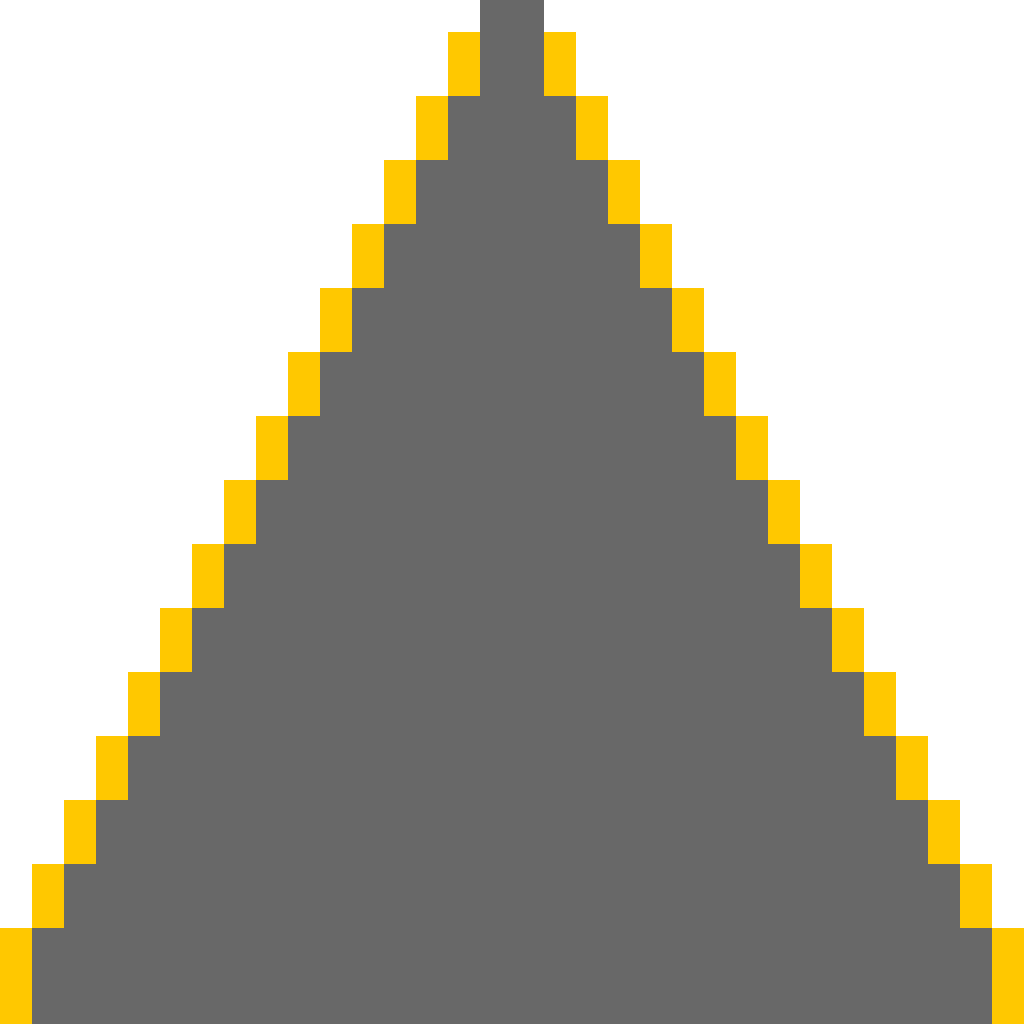
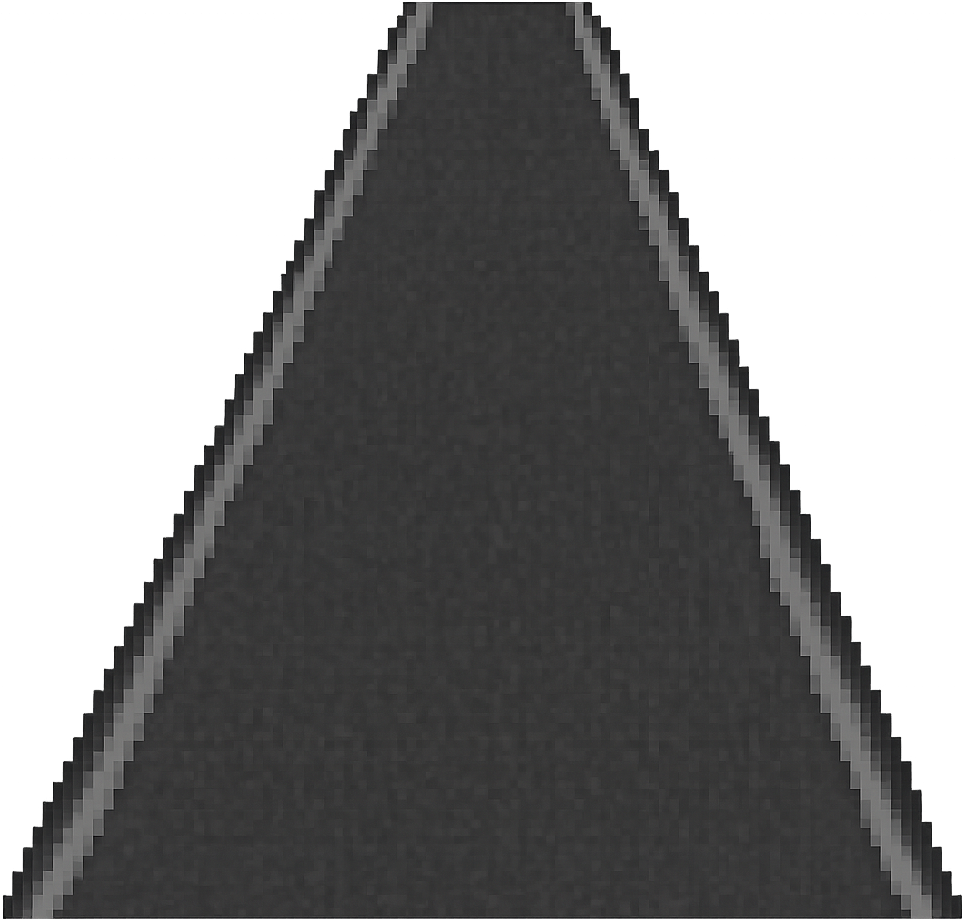
Aperfeiçoando a pista

diff --git a/assets.py b/assets.py
@@ -14,9 +14,10 @@ estrada = 'estrada'
 grama = 'grama'
 ceu = 'ceu'
 nuvem = 'nuvem'
+pista = 'pista'
 def load_assets():
     assets = {}
-    assets[estrada] = pygame.transform.scale(pygame.image.load('files/img/estrada.png').convert_alpha(),(WIDTH - 300,HEIGHT/2))
+    assets[estrada] = pygame.image.load('files/img/estrada.png').convert_alpha()
     assets[ceu] =  [
         pygame.transform.scale(pygame.image.load('files/img/Ceu_azul.png').convert(),(WIDTH, HEIGHT/2)),
         pygame.transform.scale(pygame.image.load('files/img/Por_do_Sol.png').convert(),(WIDTH, HEIGHT/2)),
@@ -45,6 +46,7 @@ def load_assets():
         pygame.transform.scale(pygame.image.load('files/img/Nuvem3.png').convert_alpha(),(WIDTH_NUVEM, HEIGHT_NUVEM))
     ]
     assets[oleo] = pygame.transform.scale(pygame.image.load('files/img/oleo.png').convert_alpha(),(WIDTH_OLEO, HEIGHT_OLEO))
+    assets[pista] = pygame.transform.scale(pygame.image.load('files/img/Pista.png').convert_alpha(),(800, 100))
     explosion_anim = []
     for i in range(9):
          #Os arquivos de animação são numerados de 00 a 08   

diff --git a/classes.py b/classes.py
@@ -327,9 +327,9 @@ class Oleo(pygame.sprite.Sprite):
 class ArvoreE(pygame.sprite.Sprite):
     def __init__(self, assets):
         pygame.sprite.Sprite.__init__(self)
+        n = random.randint(0,2)
         self.assets = assets
-        self.assets = assets
-        self.original_image = assets[arvore][2]
+        self.original_image = assets[arvore][n]
         self.base_width = WIDTH_ARVORE
         self.base_height = HEIGHT_ARVORE
         self.escala_min = 0.2
@@ -438,3 +438,4 @@ class Nuvem(pygame.sprite.Sprite):
         self.rect.x += self.speedx
         if self.rect.left > WIDTH:  # Kill when fully off-screen right
             self.kill()
+

diff --git a/funcoes.py b/funcoes.py
@@ -3,3 +3,14 @@ from configuracoes import *
 import os
 from classes import *
 from assets import load_assets
+
+def triangulo (janela, imagem, inicio_y, fim_y, esquerda, direita, apice_x, apice_y):
+    altura = fim_y - inicio_y
+    largura = direita - esquerda
+    superficie = pygame.Surface((WIDTH, HEIGHT), pygame.SRCALPHA)
+
+    pygame.draw.polygon(superficie, (0,0,0,0), [(apice_x,apice_y),(esquerda, altura),(direita,altura)])
+    estrada_escala = pygame.transform.scale(imagem, (largura,altura))
+    superficie.blit(estrada_escala, (0,0), special_flags=pygame.BLEND_RGBA_MIN)
+
+    janela.blit(superficie, (0,0))

diff --git a/game_screen.py b/game_screen.py
@@ -207,7 +207,8 @@ def game_screen(window):
         #window.blit(groups['background'], (0, 0))
         window.blit(sky,(0,0))
         window.blit(grass,(0,HEIGHT/2))
-        window.blit(pista, (150,HEIGHT/2))
+        triangulo(window, pista, HEIGHT/2, HEIGHT, 100, WIDTH-100, HEIGHT/2, WIDTH/2)
+        #window.blit(pista, (125,HEIGHT/2))
         all_sprites.draw(window)
         if state == PLAYING:
             window.blit(player.image, player.rect)

diff --git a/Jogo.py b/Jogo.py
@@ -22,4 +22,4 @@ while state != QUIT:
         state = game_over(window)
 
 # ===== Finalização =====
-pygame.quit()  # Função do PyGame que finaliza os recursos utilizados   v 
+pygame.quit()  # Função do PyGame que finaliza os recursos utilizados    
